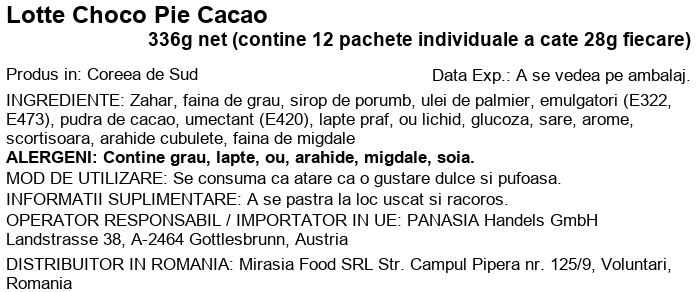
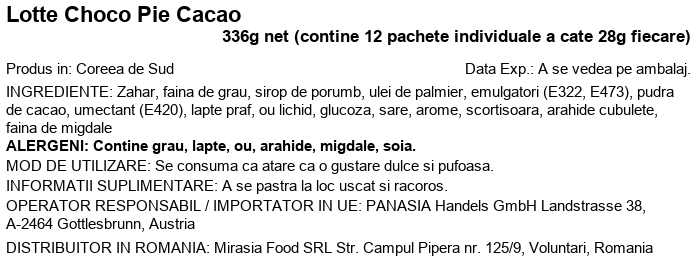
Add configurable label font sizes with automatic length

Changed region(s): [[0.0, 0.2179, 0.9943, 0.9961], [0.0, 0.0, 0.9943, 0.1868]]

diff --git a/label_app.py b/label_app.py
@@ -21,14 +21,14 @@ from src.product_json_loader import ProductJSONLoader
 from src.product_operator_registry import (
     ProductOperatorRegistry,
 )
-
+from src.label.style import LabelStyle
 
 class LabelApp:
 
     def __init__(self, root: Tk):
         self.root = root
         self.root.title("K-Goodies Label Tool")
-        self.root.geometry("860x520")
+        self.root.geometry("860x590")
 
         self.backup_folder = Path("backup")
         self.current_product = None
@@ -57,6 +57,21 @@ class LabelApp:
         )
         self.operator_var = StringVar()
         self.distributor_var = StringVar()
+
+        self.title_font_size_var = StringVar(
+            value="24"
+        )
+
+        self.body_font_size_var = StringVar(
+            value="17"
+        )
+
+        self.nutrition_font_size_var = StringVar(
+            value="17"
+        )
+
+
+
         self.status_var = StringVar(
             value="Selecteaza folderul de backup."
         )
@@ -279,6 +294,96 @@ class LabelApp:
         operator_frame.columnconfigure(
             1,
             weight=1,
+        )
+
+        size_frame = ttk.LabelFrame(
+            container,
+            text="Dimensionare eticheta",
+            padding=12,
+        )
+        size_frame.pack(
+            fill="x",
+            pady=(0, 12),
+        )
+
+        ttk.Label(
+            size_frame,
+            text="Titlu:",
+        ).grid(
+            row=0,
+            column=0,
+            sticky="w",
+        )
+
+        ttk.Spinbox(
+            size_frame,
+            from_=10,
+            to=50,
+            textvariable=self.title_font_size_var,
+            width=7,
+        ).grid(
+            row=0,
+            column=1,
+            padx=(6, 18),
+            sticky="w",
+        )
+
+        ttk.Label(
+            size_frame,
+            text="Text:",
+        ).grid(
+            row=0,
+            column=2,
+            sticky="w",
+        )
+
+        ttk.Spinbox(
+            size_frame,
+            from_=8,
+            to=40,
+            textvariable=self.body_font_size_var,
+            width=7,
+        ).grid(
+            row=0,
+            column=3,
+            padx=(6, 18),
+            sticky="w",
+        )
+
+        ttk.Label(
+            size_frame,
+            text="Nutritie:",
+        ).grid(
+            row=0,
+            column=4,
+            sticky="w",
+        )
+
+        ttk.Spinbox(
+            size_frame,
+            from_=8,
+            to=40,
+            textvariable=self.nutrition_font_size_var,
+            width=7,
+        ).grid(
+            row=0,
+            column=5,
+            padx=(6, 0),
+            sticky="w",
+        )
+
+        ttk.Label(
+            size_frame,
+            text=(
+                "Latimea ramane 62 mm; "
+                "lungimea se calculeaza automat."
+            ),
+        ).grid(
+            row=1,
+            column=0,
+            columnspan=6,
+            pady=(10, 0),
+            sticky="w",
         )
 
         action_frame = ttk.Frame(container)
@@ -611,6 +716,64 @@ class LabelApp:
 
         return True
 
+    def _create_label_style(
+        self,
+    ) -> LabelStyle | None:
+        try:
+            title_size = int(
+                self.title_font_size_var.get()
+            )
+
+            body_size = int(
+                self.body_font_size_var.get()
+            )
+
+            nutrition_size = int(
+                self.nutrition_font_size_var.get()
+            )
+
+        except ValueError:
+            messagebox.showerror(
+                "Dimensiune invalida",
+                "Dimensiunile fonturilor trebuie "
+                "sa fie numere intregi.",
+            )
+            return None
+
+        if not 10 <= title_size <= 50:
+            messagebox.showerror(
+                "Titlu invalid",
+                "Fontul titlului trebuie sa fie "
+                "intre 10 si 50.",
+            )
+            return None
+
+        if not 8 <= body_size <= 40:
+            messagebox.showerror(
+                "Text invalid",
+                "Fontul textului trebuie sa fie "
+                "intre 8 si 40.",
+            )
+            return None
+
+        if not 8 <= nutrition_size <= 40:
+            messagebox.showerror(
+                "Nutritie invalida",
+                "Fontul nutritiei trebuie sa fie "
+                "intre 8 si 40.",
+            )
+            return None
+
+        return LabelStyle(
+            title_font_size=title_size,
+            heading_font_size=max(
+                body_size - 1,
+                8,
+            ),
+            body_font_size=body_size,
+            nutrition_font_size=nutrition_size,
+        )
+
     def generate_preview(self) -> None:
         if self.current_product is None:
             messagebox.showwarning(
@@ -667,8 +830,15 @@ class LabelApp:
             / f"{self.current_product.id}.png"
         )
 
+        style = self._create_label_style()
+
+        if style is None:
+            return
+
         try:
-            LabelEngine().render(
+            LabelEngine(
+                style=style
+            ).render(
                 self.current_product,
                 str(output_path),
             )
